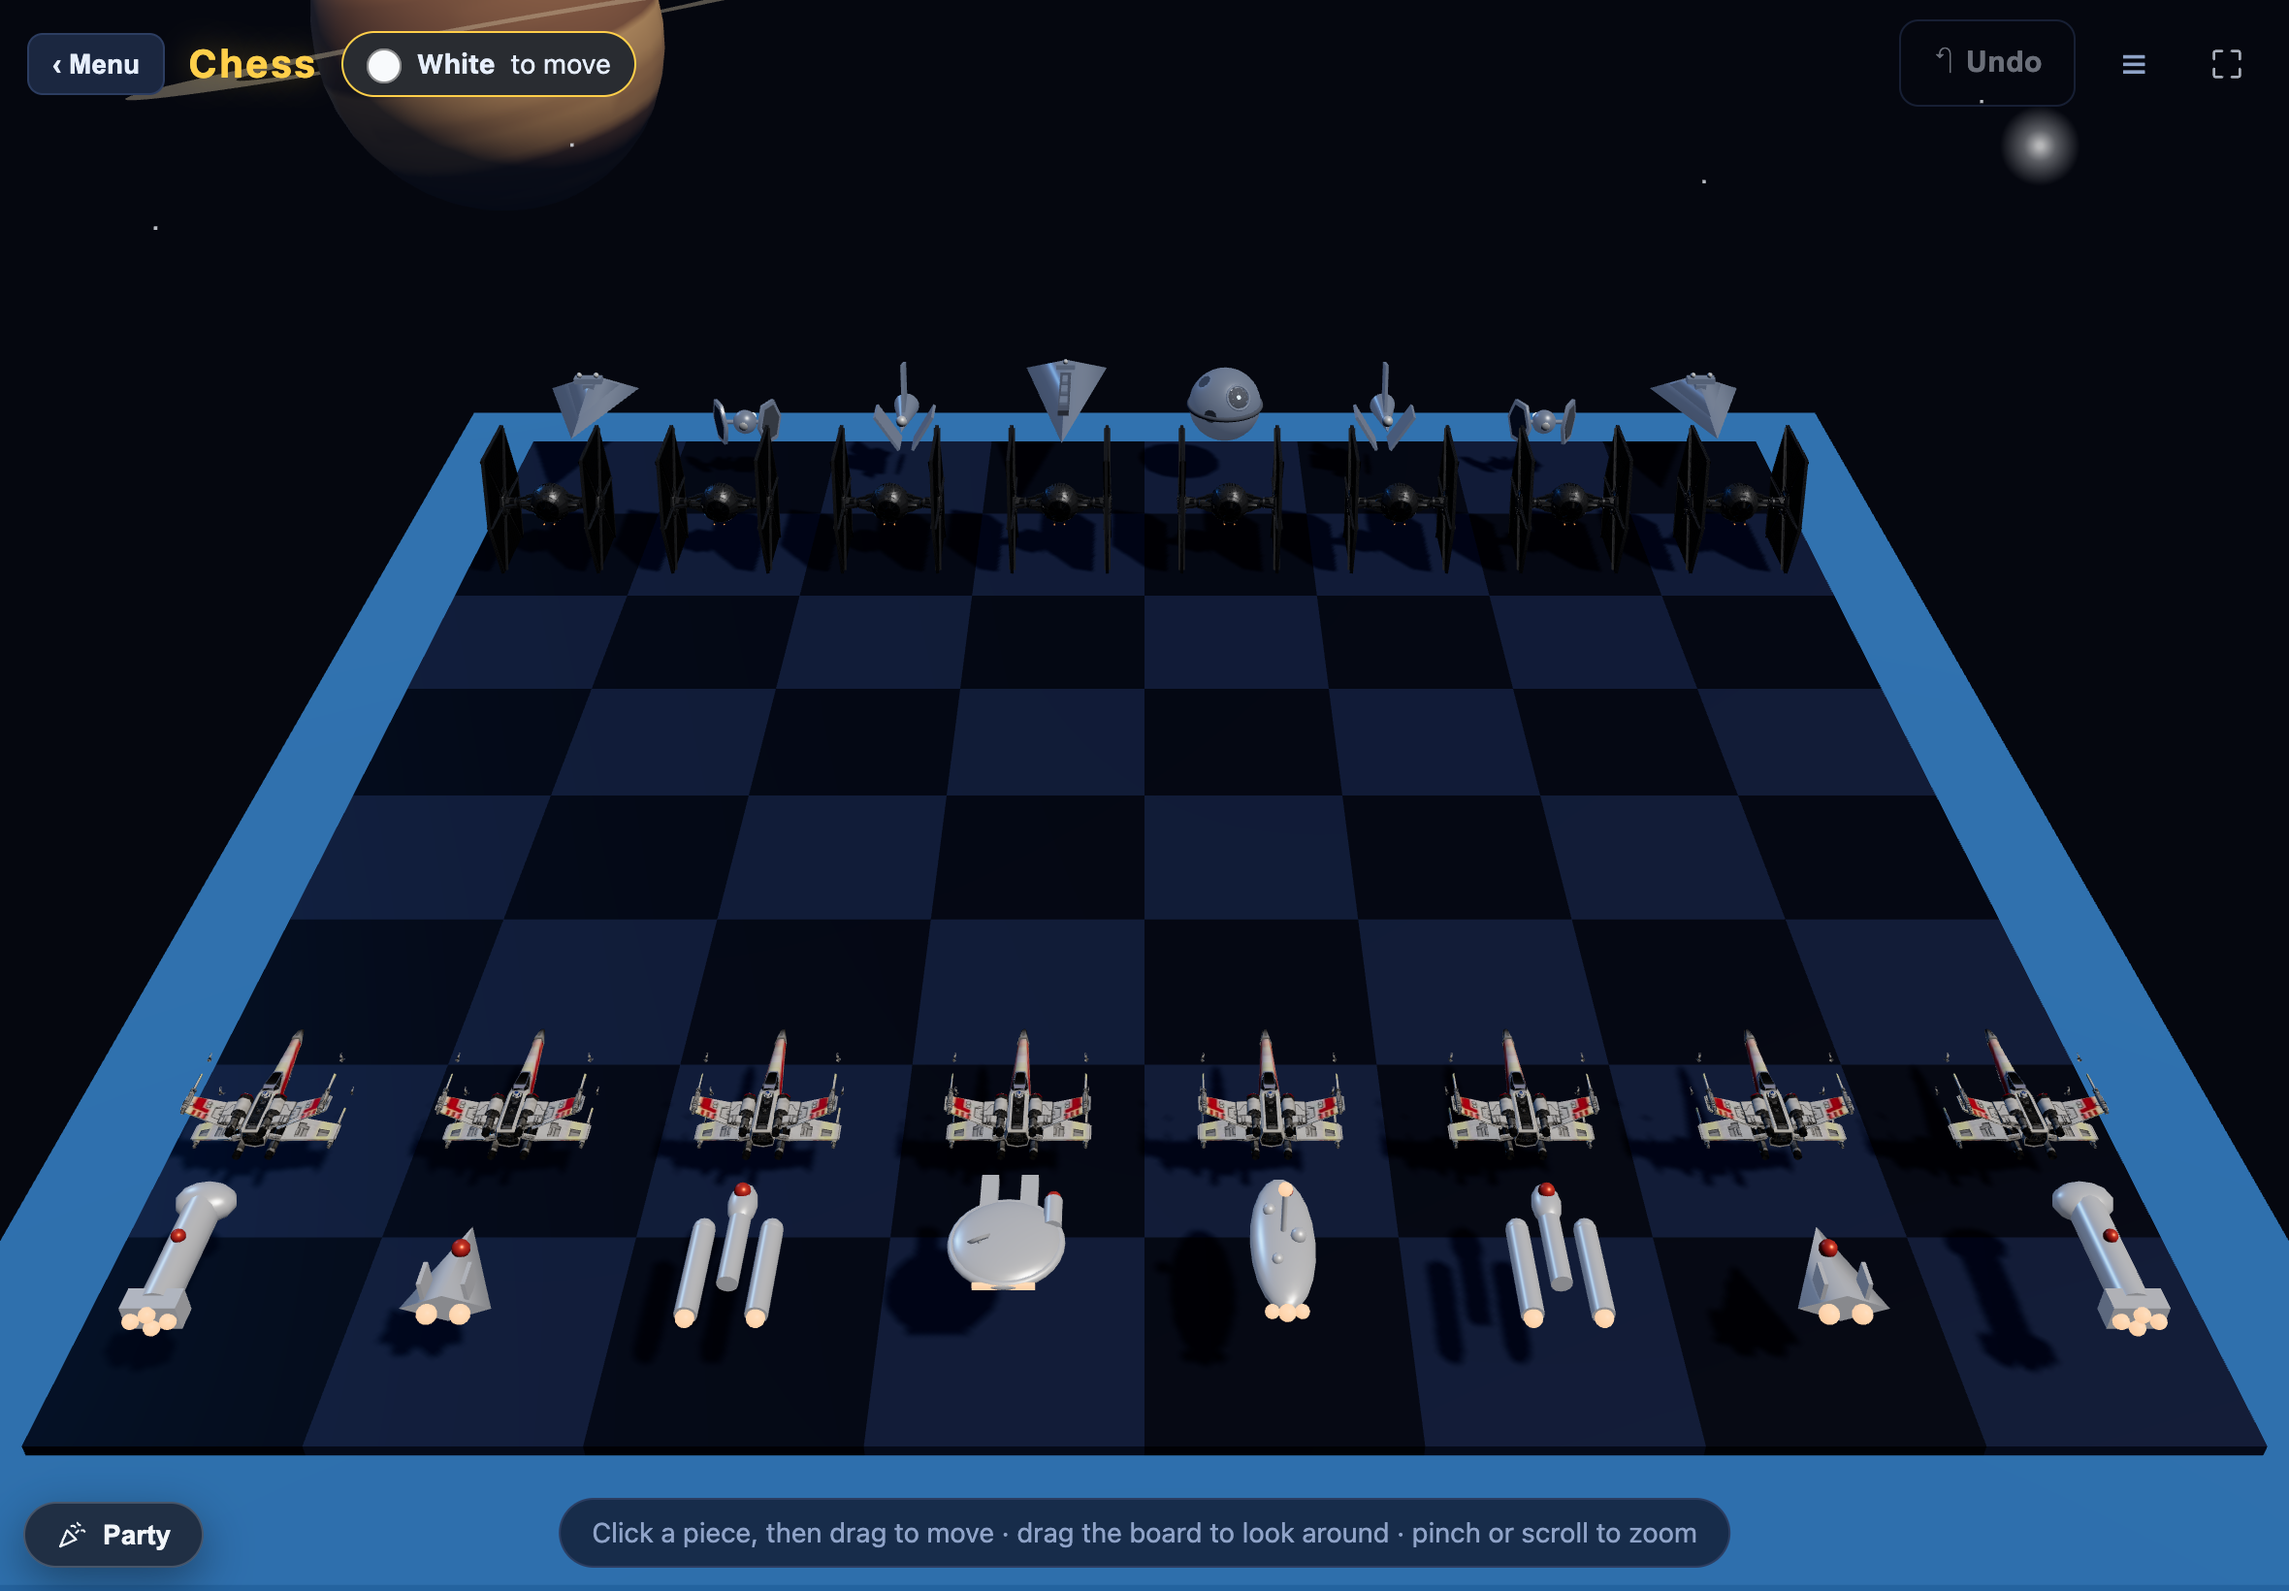
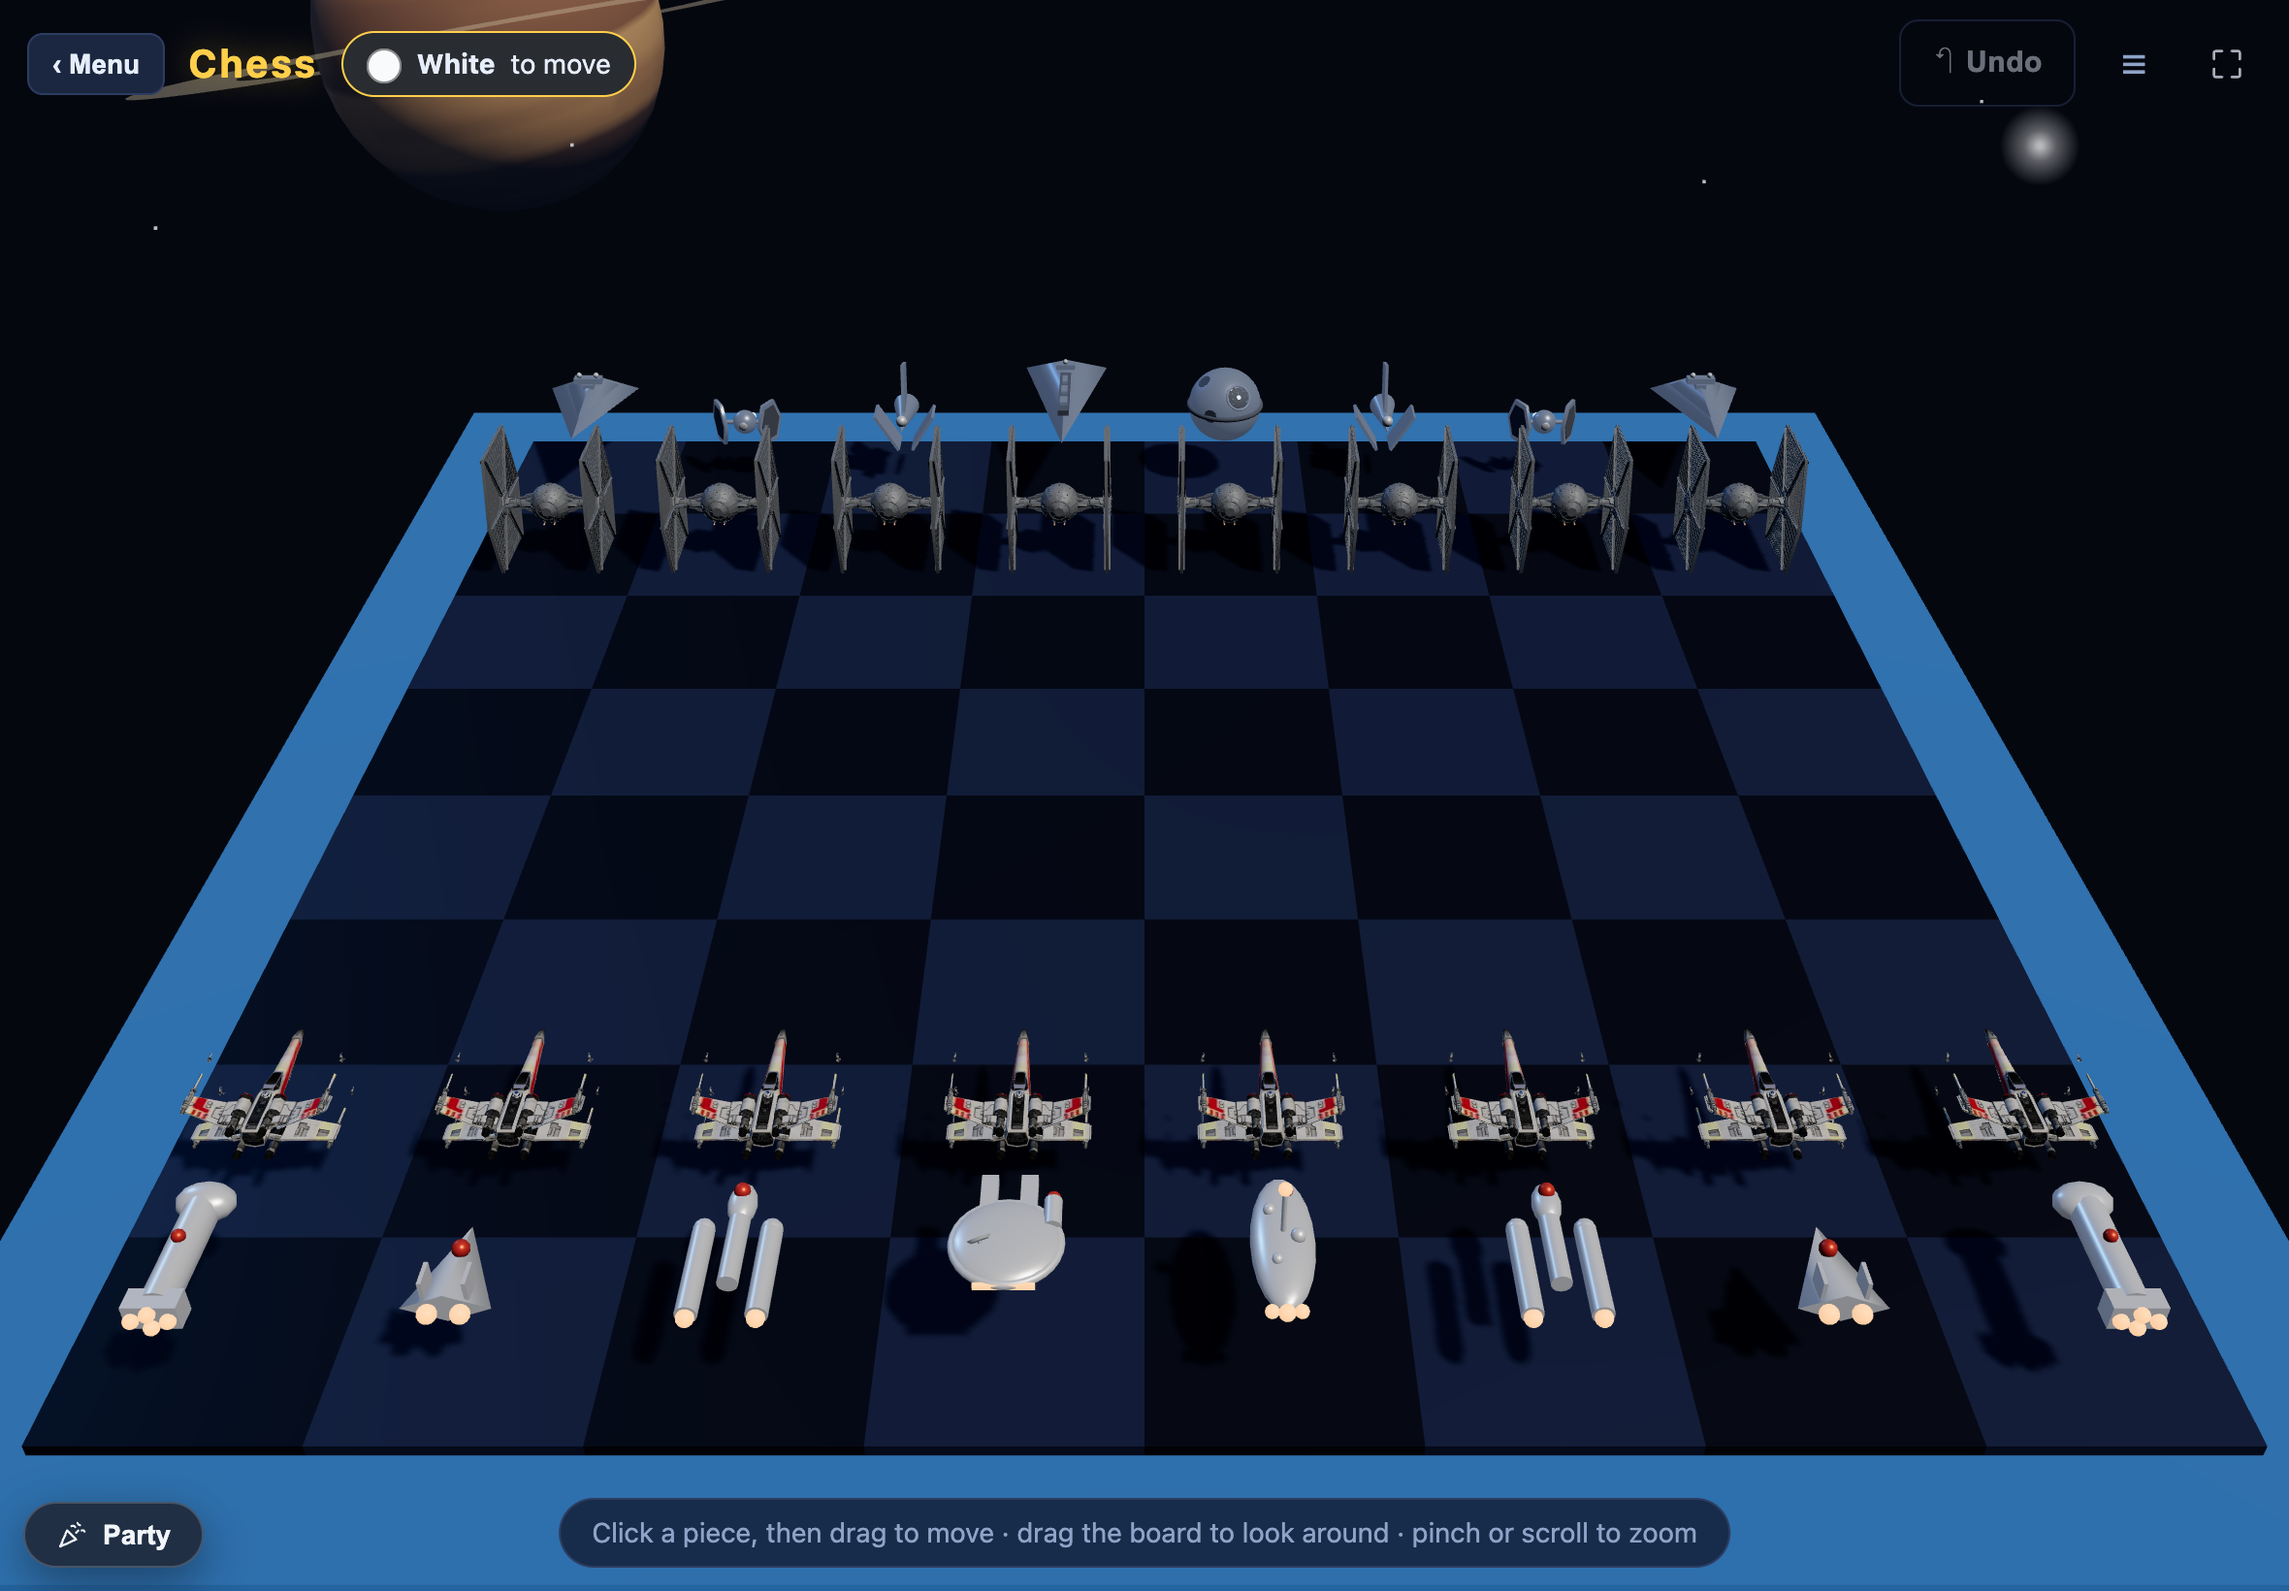
fix(chess): the TIE fighters go film-grey instead of silhouette-black
The family called the imperial pawns too dark. Two-part fix in the
galaxy seat loader: lerp the TIE's materials toward studio grey, and —
the part that actually mattered — clamp metalness (with a roughness
floor). The artist's panels are metallic, and metallic surfaces render
near-black without an environment map, which this scene has none of;
no albedo change alone could fix that. Applied per unique material so
shared panel materials shift once, keyed per-seat so future ships can
opt in with their own amount.

Gates on bare exit codes: check 0, vitest 0 (565/565), build 0;
chess-galaxy screenshot regenerated.

Claude-Session: https://claude.ai/code/session_0146VWPAYsAFebJ5DNhYKXg7

Changed region(s): [[0.1856, 0.2799, 0.8042, 0.3732]]

diff --git a/src/games/chess/components/three/ChessScene.ts b/src/games/chess/components/three/ChessScene.ts
@@ -610,9 +610,12 @@ export class ChessScene {
    */
   private async loadShipModels() {
     const loader = new GLTFLoader().setMeshoptDecoder(MeshoptDecoder);
-    const seats: { key: string; url: string }[] = [
+    // `greyward`: lerp every material toward studio grey by this amount. The
+    // TIE arrived nearly black and read as a silhouette under the night
+    // lighting — the family asked for more grey, film-style.
+    const seats: { key: string; url: string; greyward?: number }[] = [
       { key: 'wp', url: galaxyWhitePawnUrl },
-      { key: 'bp', url: galaxyBlackPawnUrl },
+      { key: 'bp', url: galaxyBlackPawnUrl, greyward: 0.62 },
     ];
     for (const seat of seats) {
       try {
@@ -623,6 +626,26 @@ export class ChessScene {
         // square, length along z with the nose flying at the enemy, sized to
         // the stand-in's footprint, hovering at the pawns' height.
         const model = gltf.scene;
+        if (seat.greyward) {
+          // Collect unique materials first — panels share materials between
+          // meshes, and lerping per-mesh would shift shared ones twice.
+          const unique = new Set<THREE.Material>();
+          model.traverse((o) => {
+            const mesh = o as THREE.Mesh;
+            if (!mesh.isMesh || !mesh.material) return;
+            for (const m of Array.isArray(mesh.material) ? mesh.material : [mesh.material]) unique.add(m);
+          });
+          const grey = new THREE.Color('#9aa2ad');
+          for (const m of unique) {
+            const std = m as THREE.MeshStandardMaterial;
+            if (std.color) std.color.lerp(grey, seat.greyward);
+            // Metallic surfaces render near-black without an environment map
+            // (this scene has none) — no amount of albedo grey fixes that, so
+            // ground the metalness and let the lights do the shading.
+            if (typeof std.metalness === 'number') std.metalness = Math.min(std.metalness, 0.3);
+            if (typeof std.roughness === 'number') std.roughness = Math.max(std.roughness, 0.55);
+          }
+        }
         const box = new THREE.Box3().setFromObject(model);
         const dims = box.getSize(new THREE.Vector3());
         model.position.sub(box.getCenter(new THREE.Vector3()));
